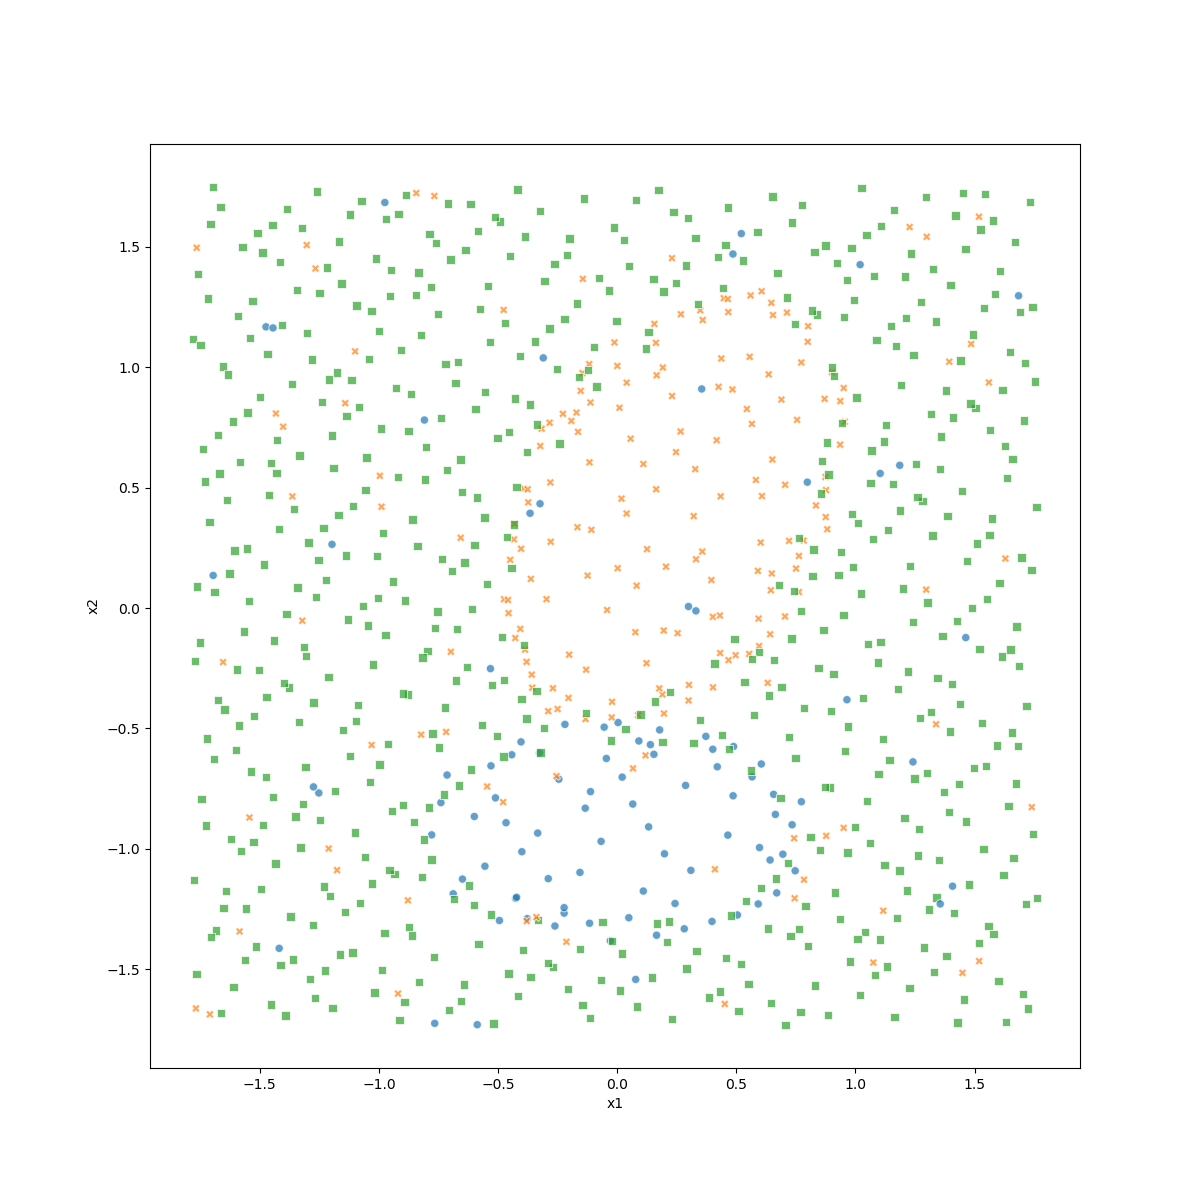
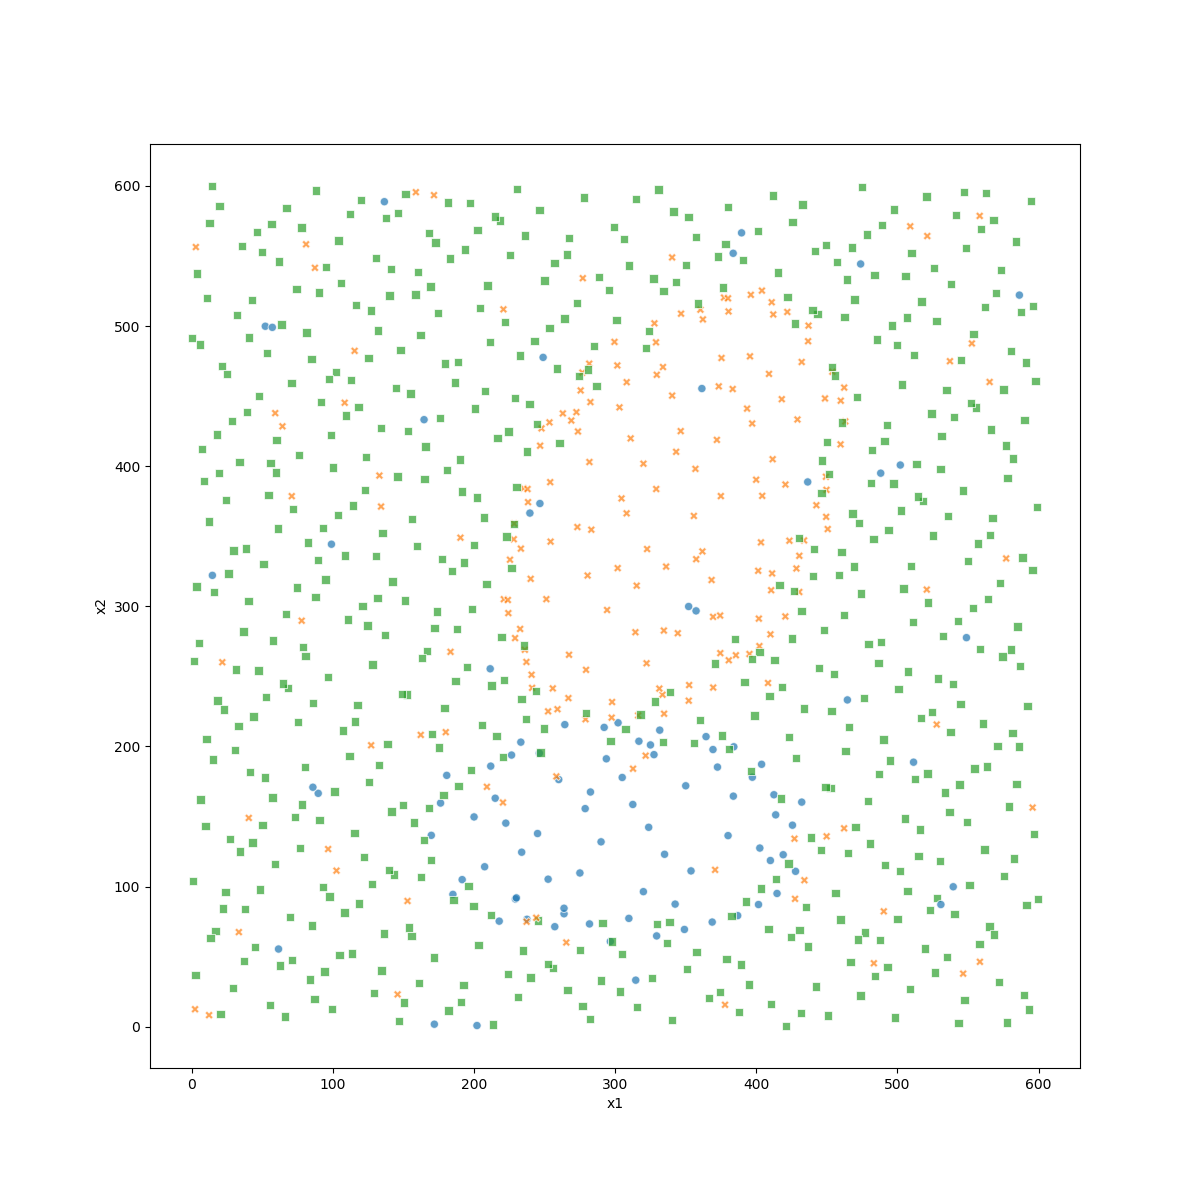
Apply perspective tricks

diff --git a/multi_imbalance/resampling/spider.py b/multi_imbalance/resampling/spider.py
@@ -1,51 +1,44 @@
-from collections import Counter
-
+import matplotlib.pyplot as plt
 import numpy as np
-from sklearn.metrics import confusion_matrix
-from sklearn.neighbors import NearestNeighbors, KNeighborsClassifier
-
-from multi_imbalance.datasets import load_datasets
-from collections import Counter
 import pandas as pd
+import seaborn as sns
 from IPython.core.display import display
+from imblearn.metrics import geometric_mean_score
+from imblearn.over_sampling import SMOTE
 from sklearn.metrics import accuracy_score
-
+from sklearn.metrics import confusion_matrix
 from sklearn.model_selection import StratifiedKFold
+from sklearn.neighbors import NearestNeighbors, KNeighborsClassifier
 from sklearn.tree import DecisionTreeClassifier
 
 from multi_imbalance.datasets import load_datasets
-from multi_imbalance.resampling.SOUP import SOUP
-from multi_imbalance.resampling.MDO import MDO
 from multi_imbalance.resampling.GlobalCS import GlobalCS
-
-from imblearn.metrics import geometric_mean_score
-from imblearn.over_sampling import SMOTE
-
-import seaborn as sns
-from sklearn.decomposition import PCA
-import matplotlib.pyplot as plt
+from multi_imbalance.resampling.MDO import MDO
+from multi_imbalance.resampling.SOUP import SOUP
 from multi_imbalance.utils.array_util import (union, setdiff, contains)
-from collections import Counter
 
 maj_int_min = {
-    "1czysty-cut": {'maj': [0],'int': [2],'min': [1]},
-    "2delikatne-cut": {'maj': [0],'int': [2],'min': [1]},
-    "3mocniej-cut": {'maj': [0],'int': [2],'min': [1]},
-    "4delikatne-bezover-cut": {'maj': [0],'int': [2],'min': [1]},
-    "balance-scale": {'maj': [2, 1],'int': [],'min': [0]},
-    "cleveland": {'maj': [0],'int': [1],'min': [2, 3, 4]},
-    "cleveland_v2": {'maj': [0],'int': [],'min': [1,2,3]},
-    "cmc": {'maj': [0, 2],'int': [],'min': [1]},
-    "dermatology": {'maj': [0,],'int': [2, 1, 4, 3],'min': [5]},
-    "glass": {'maj': [1, 0],'int': [3],'min': [5, 2, 4]},
-    "hayes-roth": {'maj': [],'int': [],'min': [0,1, 2]},
-    "new_ecoli": {'maj': [0],'int': [1,4],'min': [2, 3]},
-    "new_led7digit": {'maj': [3, 5, 0, 2,4,1],'int': [],'min': []},
-    "new_vehicle": {'maj': [1],'int': [],'min': [0, 2]},
-    "new_winequality-red": {'maj': [0, 1],'int': [2],'min': [3]},
-    "new_yeast": {'maj': [0, 1],'int': [8, 7],'min': [6,5,4,3,2]},
-    "thyroid-newthyroid": {'maj': [0],'int': [],'min': [1,2]}
+    "1czysty-cut": {'maj': [0], 'int': [2], 'min': [1]},
+    "2delikatne-cut": {'maj': [0], 'int': [2], 'min': [1]},
+    "3mocniej-cut": {'maj': [0], 'int': [2], 'min': [1]},
+    "4delikatne-bezover-cut": {'maj': [0], 'int': [2], 'min': [1]},
+    "balance-scale": {'maj': [2, 1], 'int': [], 'min': [0]},
+    "cleveland": {'maj': [0], 'int': [1], 'min': [2, 3, 4]},
+    "cleveland_v2": {'maj': [0], 'int': [], 'min': [1, 2, 3]},
+    "cmc": {'maj': [0, 2], 'int': [], 'min': [1]},
+    "dermatology": {'maj': [0, ], 'int': [2, 1, 4, 3], 'min': [5]},
+    "glass": {'maj': [1, 0], 'int': [3], 'min': [5, 2, 4]},
+    "hayes-roth": {'maj': [], 'int': [], 'min': [0, 1, 2]},
+    "new_ecoli": {'maj': [0], 'int': [1, 4], 'min': [2, 3]},
+    "new_led7digit": {'maj': [3, 5, 0, 2, 4, 1], 'int': [], 'min': []},
+    "new_vehicle": {'maj': [1], 'int': [], 'min': [0, 2]},
+    "new_winequality-red": {'maj': [0, 1], 'int': [2], 'min': [3]},
+    "new_yeast": {'maj': [0, 1], 'int': [8, 7], 'min': [6, 5, 4, 3, 2]},
+    "thyroid-newthyroid": {'maj': [0], 'int': [], 'min': [1, 2]}
 }
+
+MEAN = {}
+STD = {}
 
 
 class SPIDER3:
@@ -87,6 +80,8 @@ class SPIDER3:
         self.intermediate_classes = intermediate_classes
         self.minority_classes = minority_classes
         self.AS, self.RS = np.array([]), np.array([])
+        self.stds = [1] * 3
+        self.means = [0] * 3
 
     def fit_transform(self, X, y):
         """
@@ -100,7 +95,6 @@ class SPIDER3:
         """
         figure_number = 0
 
-
         self.DS = np.append(X, y.reshape(y.shape[0], 1), axis=1)
 
         self.plot(f"GENERATED-{figure_number}_before_processing.png")
@@ -111,23 +105,29 @@ class SPIDER3:
         self.plot(f"GENERATED-{figure_number}_after_processing_majority.png")
         figure_number += 1
 
-        for int_min_class in self.intermediate_classes + self.minority_classes: ## TODO: kolejność klas zgodnie z malejącą licznością
+        for int_min_class in self.intermediate_classes + self.minority_classes:  ## TODO: kolejność klas zgodnie z malejącą licznością
+            self.restart_perspective()
             int_min_ds = self.DS[self.DS[:, -1] == int_min_class]
             for x in int_min_ds:
                 self._relabel_nn(x)
+            self.restore_perspective()
 
             self.plot(f"GENERATED-{figure_number}_after_relabelling_to_{int_min_class}.png")
             figure_number += 1
 
+            self.restart_perspective()
             int_min_as = self.calc_int_min_as(int_min_class)
             for x in union(int_min_ds, int_min_as):
                 self._clean_nn(x)
+            self.restore_perspective()
 
             self.plot(f"GENERATED-{figure_number}_after_cleaning_{int_min_class}.png")
             figure_number += 1
 
+            self.restart_perspective()
             for x in int_min_ds:
                 self._amplify(x)
+            self.restore_perspective()
 
             self.plot(f"GENERATED-{figure_number}_after_amplifying_{int_min_class}.png")
             figure_number += 1
@@ -137,6 +137,28 @@ class SPIDER3:
         self.plot(f"GENERATED-{figure_number}_final.png", dataset=self.DS)
 
         return self.DS[:, :-1], self.DS[:, -1]
+
+    def restart_perspective(self):
+        for col in range(self.ds_as_rs_union().shape[1] - 1):
+            self.stds[col] = self.ds_as_rs_union()[:, col].std()
+            self.means[col] = self.ds_as_rs_union()[:, col].mean()
+
+        for dataset in [self.DS, self.RS, self.AS]:
+            if dataset.shape[0] > 0:
+                self.normalize(dataset)
+
+    def restore_perspective(self):
+        for dataset in [self.DS, self.RS, self.AS]:
+            if dataset.shape[0] > 0:
+                self.denormalize(dataset)
+
+    def normalize(self, dataset):
+        for col in range(dataset.shape[1] - 1):
+            dataset[:, col] = (dataset[:, col] - self.means[col]) / self.stds[col]
+
+    def denormalize(self, dataset):
+        for col in range(dataset.shape[1] - 1):
+            dataset[:, col] = dataset[:, col] * self.stds[col] + self.means[col]
 
     def plot(self, path, dataset=None):
         if dataset is None:
@@ -199,7 +221,7 @@ class SPIDER3:
         for cj in C:
             s = 0
             for ci in C:
-                s += ((kneighbors[:,-1] == ci).astype(int).sum() / self.k) * self.cost[C.index(ci), C.index(cj)]
+                s += ((kneighbors[:, -1] == ci).astype(int).sum() / self.k) * self.cost[C.index(ci), C.index(cj)]
             vals.append(s)
         C = np.array(C)
         vals = np.array(vals)
@@ -216,7 +238,8 @@ class SPIDER3:
         """
         nearest_neighbors = self._knn(x, self.ds_as_rs_union())
         for neighbor in nearest_neighbors:
-            if contains(self.RS, neighbor) and self._class_of(neighbor) in self.majority_classes and self._class_of(neighbor) in self._min_cost_classes(x, self.ds_as_rs_union()):
+            if contains(self.RS, neighbor) and self._class_of(neighbor) in self.majority_classes and self._class_of(
+                    neighbor) in self._min_cost_classes(x, self.ds_as_rs_union()):
                 self.RS = setdiff(self.RS, np.array([neighbor]))
                 neighbor[-1] = x[-1]
                 self.AS = union(self.AS, np.array([neighbor]))
@@ -257,7 +280,9 @@ class SPIDER3:
             self.neigh_clf = NearestNeighbors(n_neighbors=self.k)
 
         self.neigh_clf.fit(DS[:, :-1])
-        within_radius = self.neigh_clf.radius_neighbors([x[:-1]], radius=self.neigh_clf.kneighbors([x[:-1]], return_distance=True)[0][0][-1] + 0.0001 * self.neigh_clf.kneighbors([x[:-1]], return_distance=True)[0][0][-1],return_distance=True)
+        within_radius = self.neigh_clf.radius_neighbors([x[:-1]], radius=
+        self.neigh_clf.kneighbors([x[:-1]], return_distance=True)[0][0][-1] + 0.0001 *
+        self.neigh_clf.kneighbors([x[:-1]], return_distance=True)[0][0][-1], return_distance=True)
         unique_distances = np.unique(sorted(within_radius[0][0]))
         all_distances = within_radius[0][0]
         all_indices = within_radius[1][0]
@@ -322,27 +347,30 @@ def train_and_test():
 
 if __name__ == "__main__":
     tprs = []
-    for imbalance_ratio in [ "30-40-15-15"]:  # "70-30-0-0", "40-50-10-0",
+    for imbalance_ratio in ["30-40-15-15"]:  # "70-30-0-0", "40-50-10-0",
         print(f"Imbalance ratio: {imbalance_ratio}")
         for overlap in [0]:  # , 1, 2
             print(f"Overlap: {overlap}")
             min_tpr = []
             int_tpr = []
             maj_tpr = []
-            for i in range(1, 2): # 11
+            for i in range(1, 2):  # 11
                 X_train, y_train, X_test, y_test = read_train_and_test_data(overlap, imbalance_ratio, i)
                 cost = np.ones((3, 3))
                 for i in range(3):
                     cost[i][i] = 0
 
                 cost = np.reshape(np.array([0, 2, 3, 3, 0, 2, 7, 5, 0]), (3, 3))
-                #cost = np.reshape(np.array([0, 1, 1, 1, 0, 1, 1, 1, 0]), (3, 3))
+                # cost = np.reshape(np.array([0, 1, 1, 1, 0, 1, 1, 1, 0]), (3, 3))
 
                 clf = SPIDER3(k=5, cost=cost, majority_classes=['MAJ'],
                               intermediate_classes=['INT'], minority_classes=['MIN'])
                 for k in range(0, 2):
-                    X_train[:, k] = (X_train[:, k] - np.mean(X_train[:, k])) / np.std(X_train[:, k])
-                    X_test[:, k] = (X_test[:, k] - np.mean(X_test[:, k])) / np.std(X_test[:, k])
+                    MEAN[k] = np.mean(X_train[:, k])
+                    STD[k] = np.std(X_train[:, k])
+                # for k in range(0, 2):
+                #     X_train[:, k] = (X_train[:, k] - np.mean(X_train[:, k])) / np.std(X_train[:, k])
+                #     X_test[:, k] = (X_test[:, k] - np.mean(X_test[:, k])) / np.std(X_test[:, k])
                 X_train, y_train = clf.fit_transform(X_train.astype(np.float64), y_train)
                 min_t, int_t, maj_t = train_and_test()
                 min_tpr.append(min_t)
@@ -354,17 +382,13 @@ if __name__ == "__main__":
             print(f"MAJ TPR:{np.array(maj_tpr).mean()}")
     np.savetxt("costs.csv", np.array(tprs), delimiter=",")
 
-
-
-
-
 if __name__ == "__main__2":
     datasets = load_datasets()
     results_g_mean = dict()
     results_acc = dict()
 
     for dataset_name, dataset_values in datasets.items():
-        if dataset_name != 'dermatology': #or dataset_name != 'new_ecoli':
+        if dataset_name != 'dermatology':  # or dataset_name != 'new_ecoli':
             continue
         print(dataset_name)
 
@@ -437,4 +461,3 @@ if __name__ == "__main__2":
 
     # display("MEAN ACC")
     # display(df2.mean())
-
